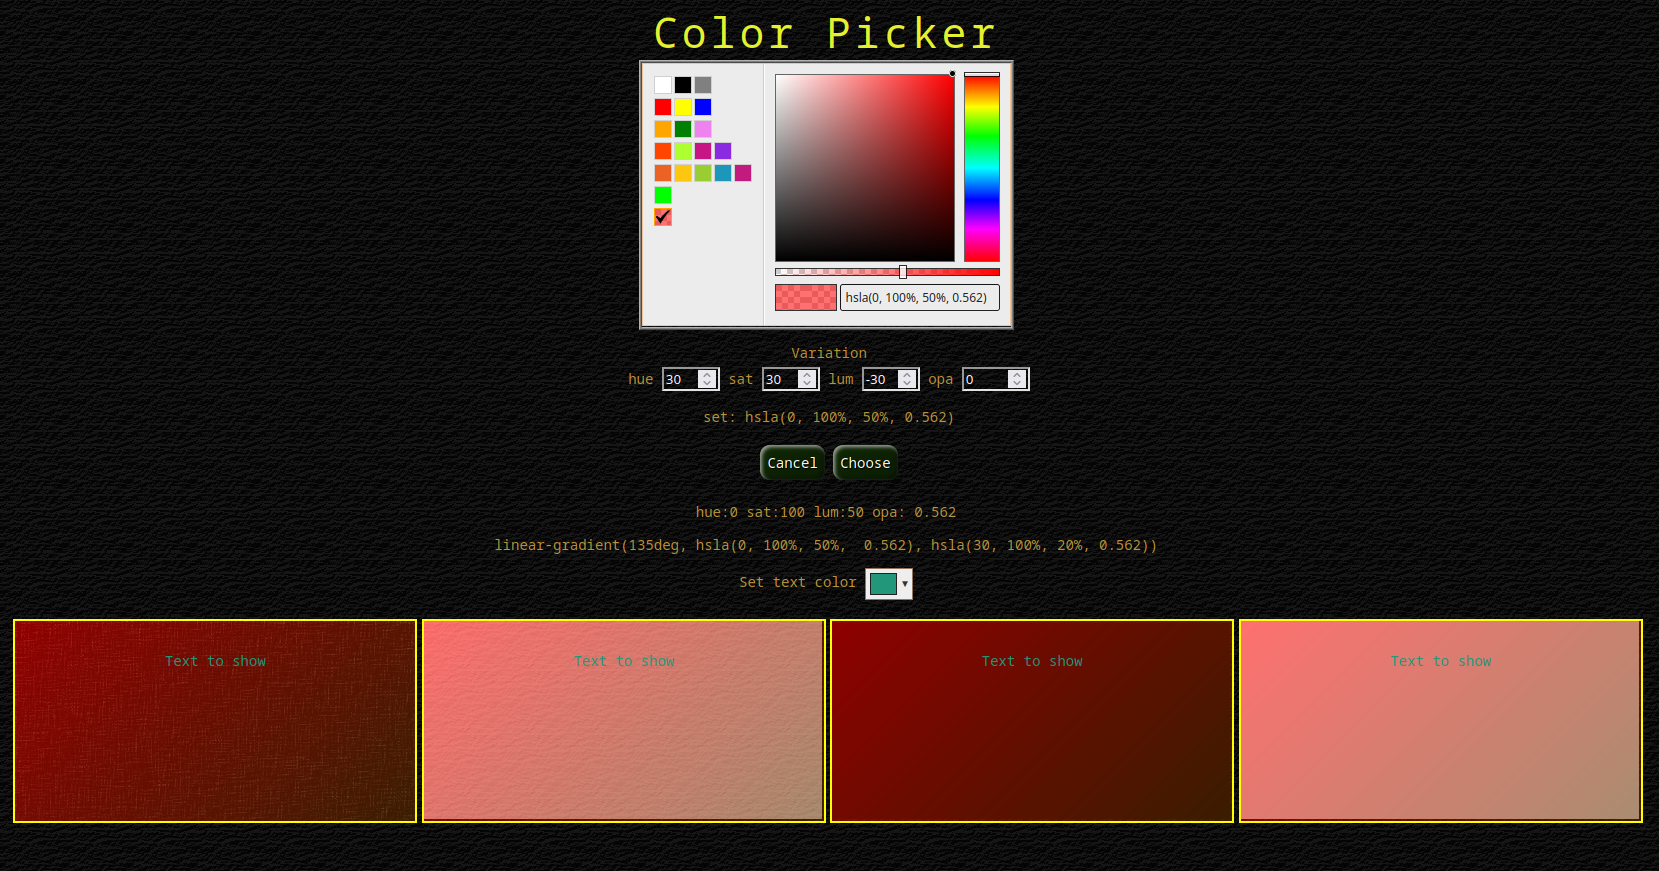
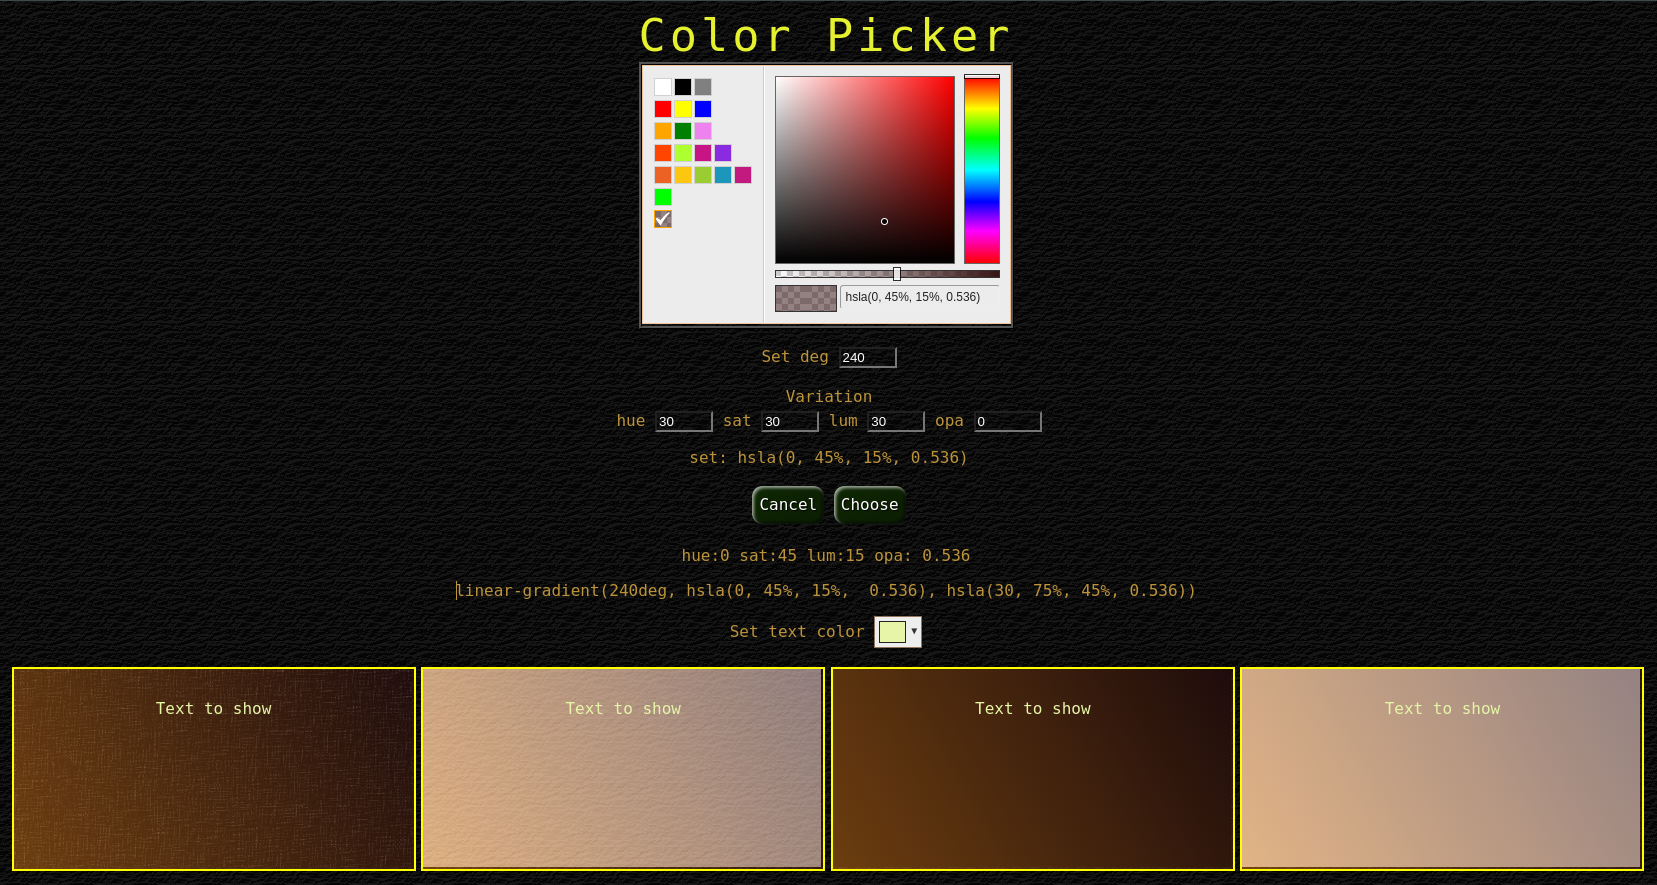
vers.1.2

Changed region(s): [[0.0, 0.62, 1.0, 0.992], [0.3693, 0.0, 0.6156, 0.589]]

diff --git a/colpick.php b/colpick.php
@@ -78,6 +78,7 @@
     form.setcolor.value = color_sel;
     form.butcolpicker.value = elm.value;
 
+    form.deg.value = document.getElementById('setdeg').value;
     form.hvar.value = document.getElementById('sethvar').value;
     form.svar.value = document.getElementById('setsvar').value;
     form.lvar.value = document.getElementById('setlvar').value;
@@ -125,6 +126,7 @@
 </script>
 
 <form id='formRestoreColors' method="post" action="<?php echo $root; ?>">
+  <input type="hidden" id="deg" name="deg" value="">
   <input type="hidden" id="hvar" name="hvar" value="">
   <input type="hidden" id="svar" name="svar" value="">
   <input type="hidden" id="lvar" name="lvar" value="">
@@ -135,15 +137,17 @@
   <input type='text' id='color-picker' name='color_picker' value="" />
 </form>
 <div id="boxbuts">
+  <label for="deg">Set deg</label>
+  <input type="number" class="txtnum" id="setdeg" placeholder="deg" min="0" max="360" step="1" value="<?php echo $deg; ?>"><br><br>
   <label>Variation</label><br>
   <label for="hvar">hue</label>
-  <input type="number" class="txtnum" id="sethvar" placeholder="hue" value="<?php echo $hvar; ?>">
+  <input type="number" class="txtnum" id="sethvar" placeholder="hue" min="0" max="360" step="1" value="<?php echo $hvar; ?>">
   <label for="svar">sat</label>
-  <input type="number" class="txtnum" id="setsvar" placeholder="sat" value="<?php echo $svar; ?>">
+  <input type="number" class="txtnum" id="setsvar" placeholder="sat" min="0" max="100" step="1" value="<?php echo $svar; ?>">
   <label for="lvar">lum</label>
-  <input type="number" class="txtnum" id="setlvar" placeholder="lum" value="<?php echo $lvar; ?>">
+  <input type="number" class="txtnum" id="setlvar" placeholder="lum" min="0" max="100" step="1" value="<?php echo $lvar; ?>">
   <label for="ovar">opa</label>
-  <input type="number" class="txtopa" id="setovar" placeholder="opa" step=".01" value="<?php echo $ovar; ?>">
+  <input type="number" class="txtopa" id="setovar" placeholder="opa" min="0" max="1" step=".01" value="<?php echo $ovar; ?>">
 </div>
 <div id="boxbuts">
   <?php echo "set: $setcolor<br><br>"; ?>

diff --git a/colorpicker.php b/colorpicker.php
@@ -8,12 +8,14 @@
     $butexe = filter_input(INPUT_POST, 'butexe', FILTER_DEFAULT);
 
     
+    $deg = filter_input(INPUT_POST, 'deg', FILTER_DEFAULT);
     $hvar = filter_input(INPUT_POST, 'hvar', FILTER_DEFAULT);
     $svar = filter_input(INPUT_POST, 'svar', FILTER_DEFAULT);
     $lvar = filter_input(INPUT_POST, 'lvar', FILTER_DEFAULT);
     $ovar = filter_input(INPUT_POST, 'ovar', FILTER_DEFAULT);
 
 
+    $deg = ($deg == "") ? 135 : $deg;
     $hvar = ($hvar == "") ? 30 : (int)$hvar;
     $svar = ($svar == "") ? 30 : (int)$svar;
     $lvar = ($lvar == "") ? 30 : (int)$lvar;
@@ -57,7 +59,8 @@
                 $basecol[2] = $basecol[2] == "" ? 0 : (int)$basecol[2];
                 array_push($basecol,0.95);
             }
-            $newclass = create_css_class("colafter", "#fff", "135deg", $basecol[0], $basecol[1], $basecol[2], $basecol[3], $hvar, $svar, $lvar, 0);
+            
+            $newclass = create_css_class("colafter", "#fff", $deg."deg", $basecol[0], $basecol[1], $basecol[2], $basecol[3], $hvar, $svar, $lvar, 0);
         }
         ?>
 
